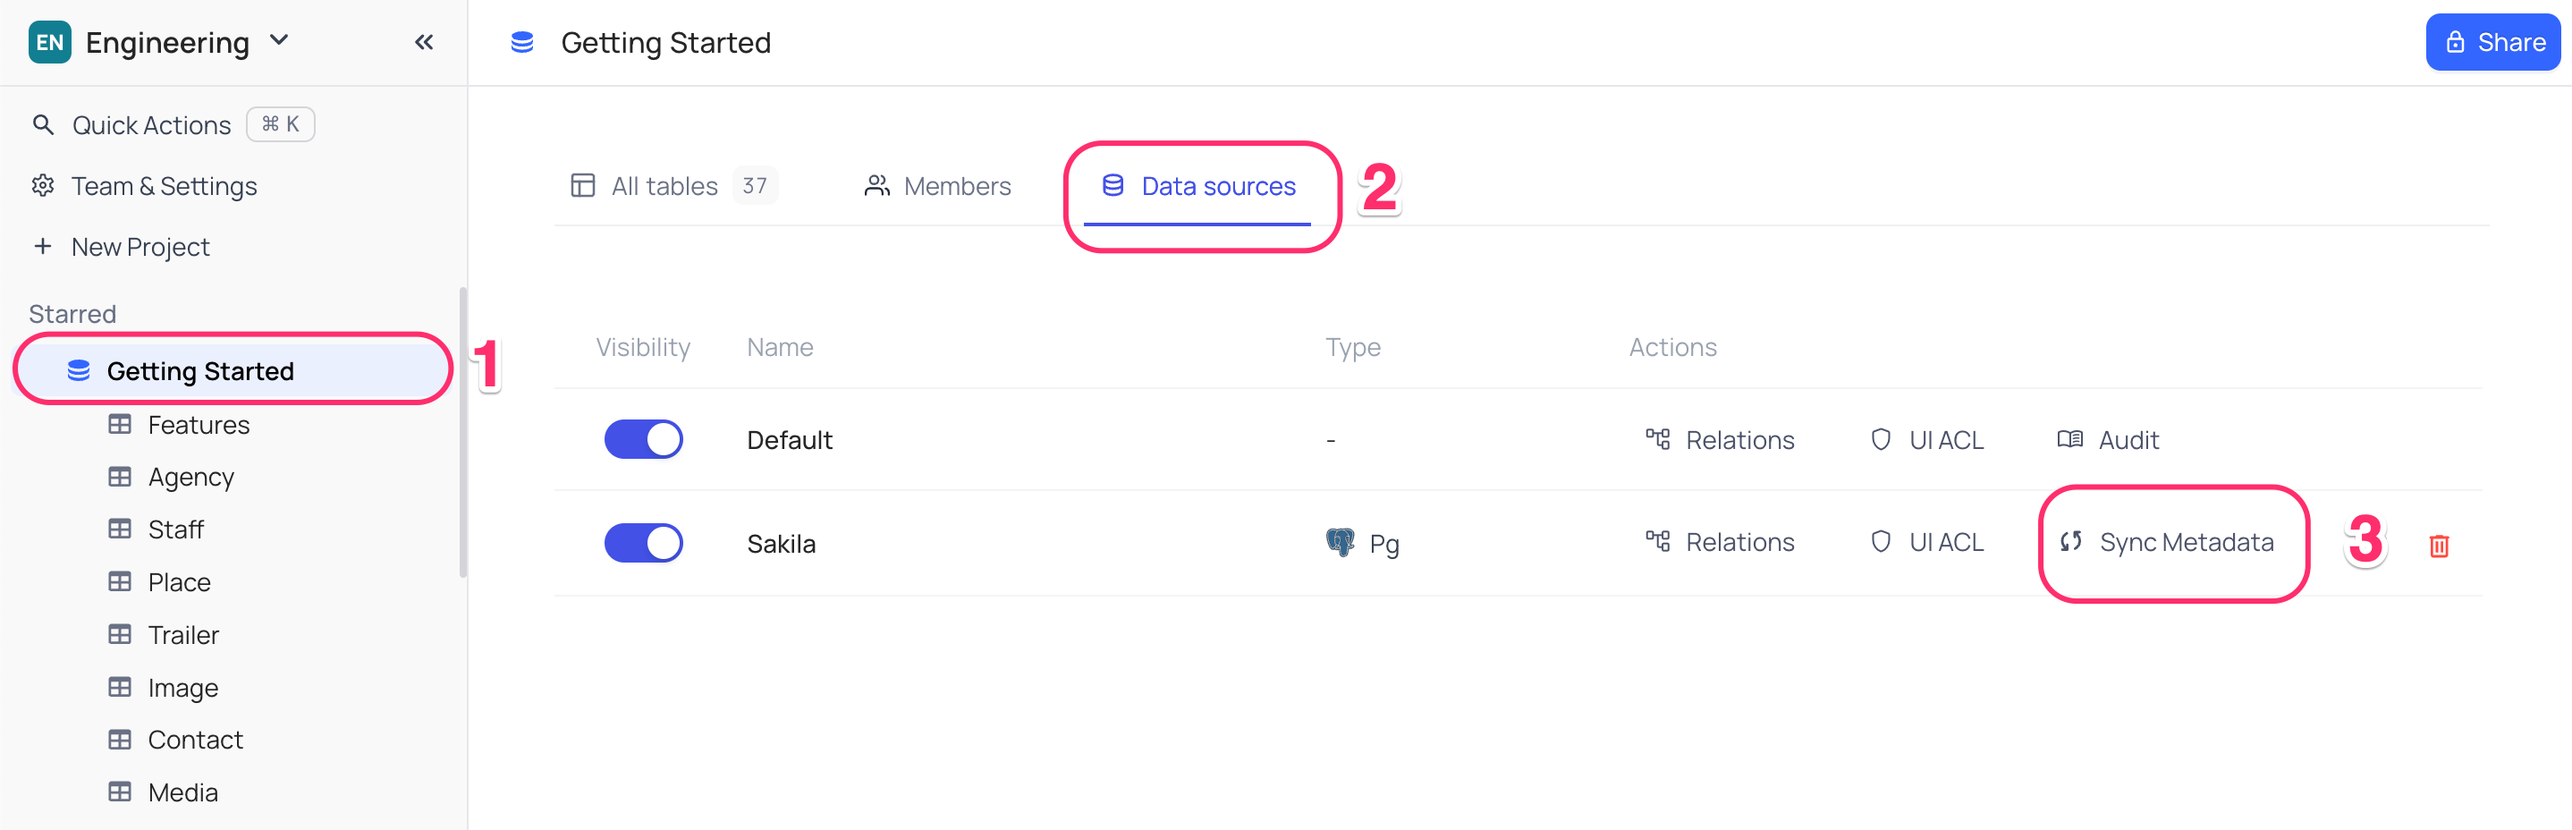
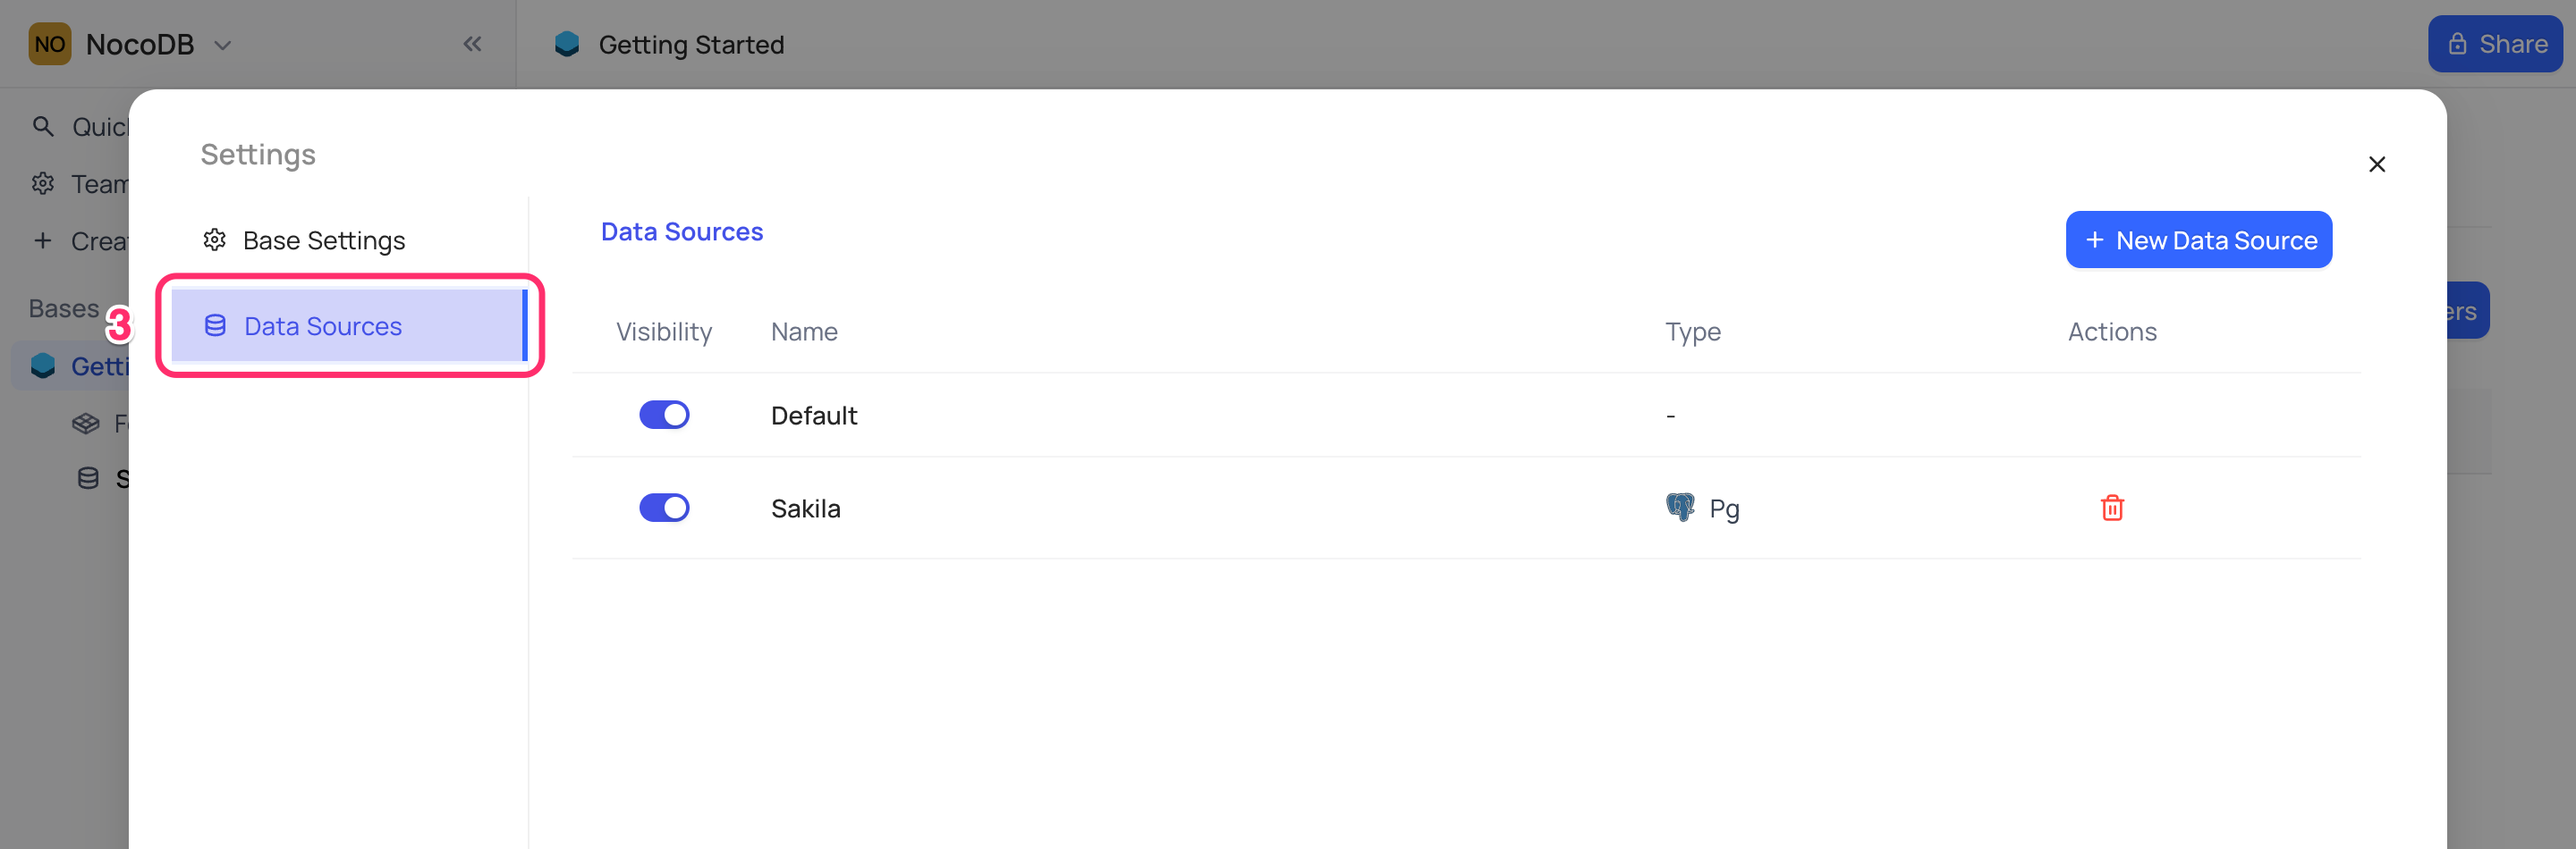
docs: update

diff --git a/packages/noco-docs/docs/100.data-sources/020.connect-to-data-source.md b/packages/noco-docs/docs/100.data-sources/020.connect-to-data-source.md
@@ -7,10 +7,11 @@ keywords: ['NocoDB data source', 'connect data source', 'external data source', 
 
 To connect to an external data source, follow the steps below:
 
-1. Access Base context menu by clicking on the `Base` name in the left sidebar
-2. Select `Data Sources` tab
-3. Click on `+ New Data Source` button
-4. On the pop-up modal, provide the following details:
+1. Access Base context menu by clicking on the `...` in the left sidebar against the base name
+2. Click on `Settings` tab
+3. In the popup modal, click on `Data Sources` tab
+4. Click on `+ New Data Source` button
+5. On the input modal, provide the following details:
 
    | Field Name    | Description                                                                          |
    |---------------|--------------------------------------------------------------------------------------|
@@ -23,7 +24,7 @@ To connect to an external data source, follow the steps below:
    | Database      | Name of the database to connect to                                                   |
    | Schema name   | Name of the schema to connect to                                                     |
 
-4a. Optionally, if the connection required is TLS/MTLS for MITM protection, follow these additional steps below:
+5a. Optionally, if the connection required is TLS/MTLS for MITM protection, follow these additional steps below:
 
    - Click on `SSL & Advanced Parameters`
    - Select `SSL Mode` and upload the client certificate, client key, and Root CA files by clicking on the file.    
@@ -33,16 +34,18 @@ To connect to an external data source, follow the steps below:
    Example: In PostgreSQL when SSL mode set to "Required-Identity," if the server certificate's common name (cname) differs from the actual DNS/IP used for connection, the connection will fail.\
    To resolve, add "servername" property with same cname value under the SSL section. Additional details are available at [knex configuration options](https://knexjs.org/guide/#configuration-options).
    
-5. Click on `Test Database Connection` button to verify the connection
-6. Wait for the connection to be verified.   
-- After connection is successful, `Submit` button will be enabled.   
-- Click on `Submit` button to save the data source.
+6. Click on `Test Database Connection` button to verify the connection
+7. Wait for the connection to be verified.   
+- After test is successful, `Counnect to Data Source` button will be enabled.   
+- Click on `Counnect to Data Source` button to save the data source.
 
 
-![data source-1](/img/v2/data-source/data-source-connect-1.png)
 
-![data source-2](/img/v2/data-source/data-source-connect-2.png)
 
-![data source-3](/img/v2/data-source/data-source-connect-3.png)
+![data source-1](/img/v2/data-source/ds-connect-1.png)
 
-![data source-4](/img/v2/data-source/data-source-connect-4a.png)
+![data source-2](/img/v2/data-source/ds-connect-2.png)
+
+![data source-3](/img/v2/data-source/ds-connect-3.png)
+
+![data source-4](/img/v2/data-source/ds-connect-4.png)

diff --git a/packages/noco-docs/docs/100.data-sources/030.sync-with-data-source.md b/packages/noco-docs/docs/100.data-sources/030.sync-with-data-source.md
@@ -5,17 +5,15 @@ tags: ['Data Sources', 'Sync', 'External', 'PG', 'MySQL']
 keywords: ['NocoDB data source', 'connect data source', 'external data source', 'PG data source', 'MySQL data source']
 ---
 
-
-1. Access Base context menu by clicking on the `Base` name in the left sidebar
-2. Select `Data Sources` tab
-3. Click on `Sync Metadata` button listed under `Actions` column for the data source that you wish to sync metadata for
-4. Click on `Reload` button to refresh Sync state (Optional)
-5. Any changes to the metadata identified will be listed in the `Sync State` column
-6. Click on `Sync Now` button to sync the metadata changes
+Access `Data Sources` tab in the `Base Settings` to sync changes done in the external data source with NocoDB.
+1. Select the data source that you wish to sync metadata for
+2. Click on `Meta Sync` button listed under `Actions` column for the data source that you wish to sync metadata for
+3. Click on `Reload` button to refresh Sync state (Optional)
+4. Any changes to the metadata identified will be listed in the `Sync State` column
+5. Click on `Sync Now` button to sync the metadata changes
   
-![sync metadata](/img/v2/data-source/data-source-2.png)
-
-![sync metadata](/img/v2/data-source/data-source-meta-sync.png)
+![sync metadata](/img/v2/data-source/data-source-meta-sync-1.png)
+![sync metadata](/img/v2/data-source/data-source-meta-sync-2.png)
 
 After the sync is complete, you can see the updated state in the `Sync State` column.  
 Sync modal also marks `Tables metadata is in Sync` in the header.

diff --git a/packages/noco-docs/docs/100.data-sources/010.data-source-overview.md b/packages/noco-docs/docs/100.data-sources/010.data-source-overview.md
@@ -21,10 +21,12 @@ Currently only one external data source can be added per project.
 
 ## Accessing `Data Sources`
 
-1. Access Base context menu by clicking on the `Base` name in the left sidebar
-2. Click on `Data Sources` tab
+1. Access Base context menu by clicking on the `...` in the left sidebar against the base name
+2. Click on `Settings` tab
+3. In the popup modal, click on `Data Sources` tab
 
-![data source](/img/v2/data-source/data-source.png)
+![data source](/img/v2/data-source/data-source-1.png)
+![data source](/img/v2/data-source/data-source-2.png)
 
 Learn more about working with Data sources in the following sections:
  
